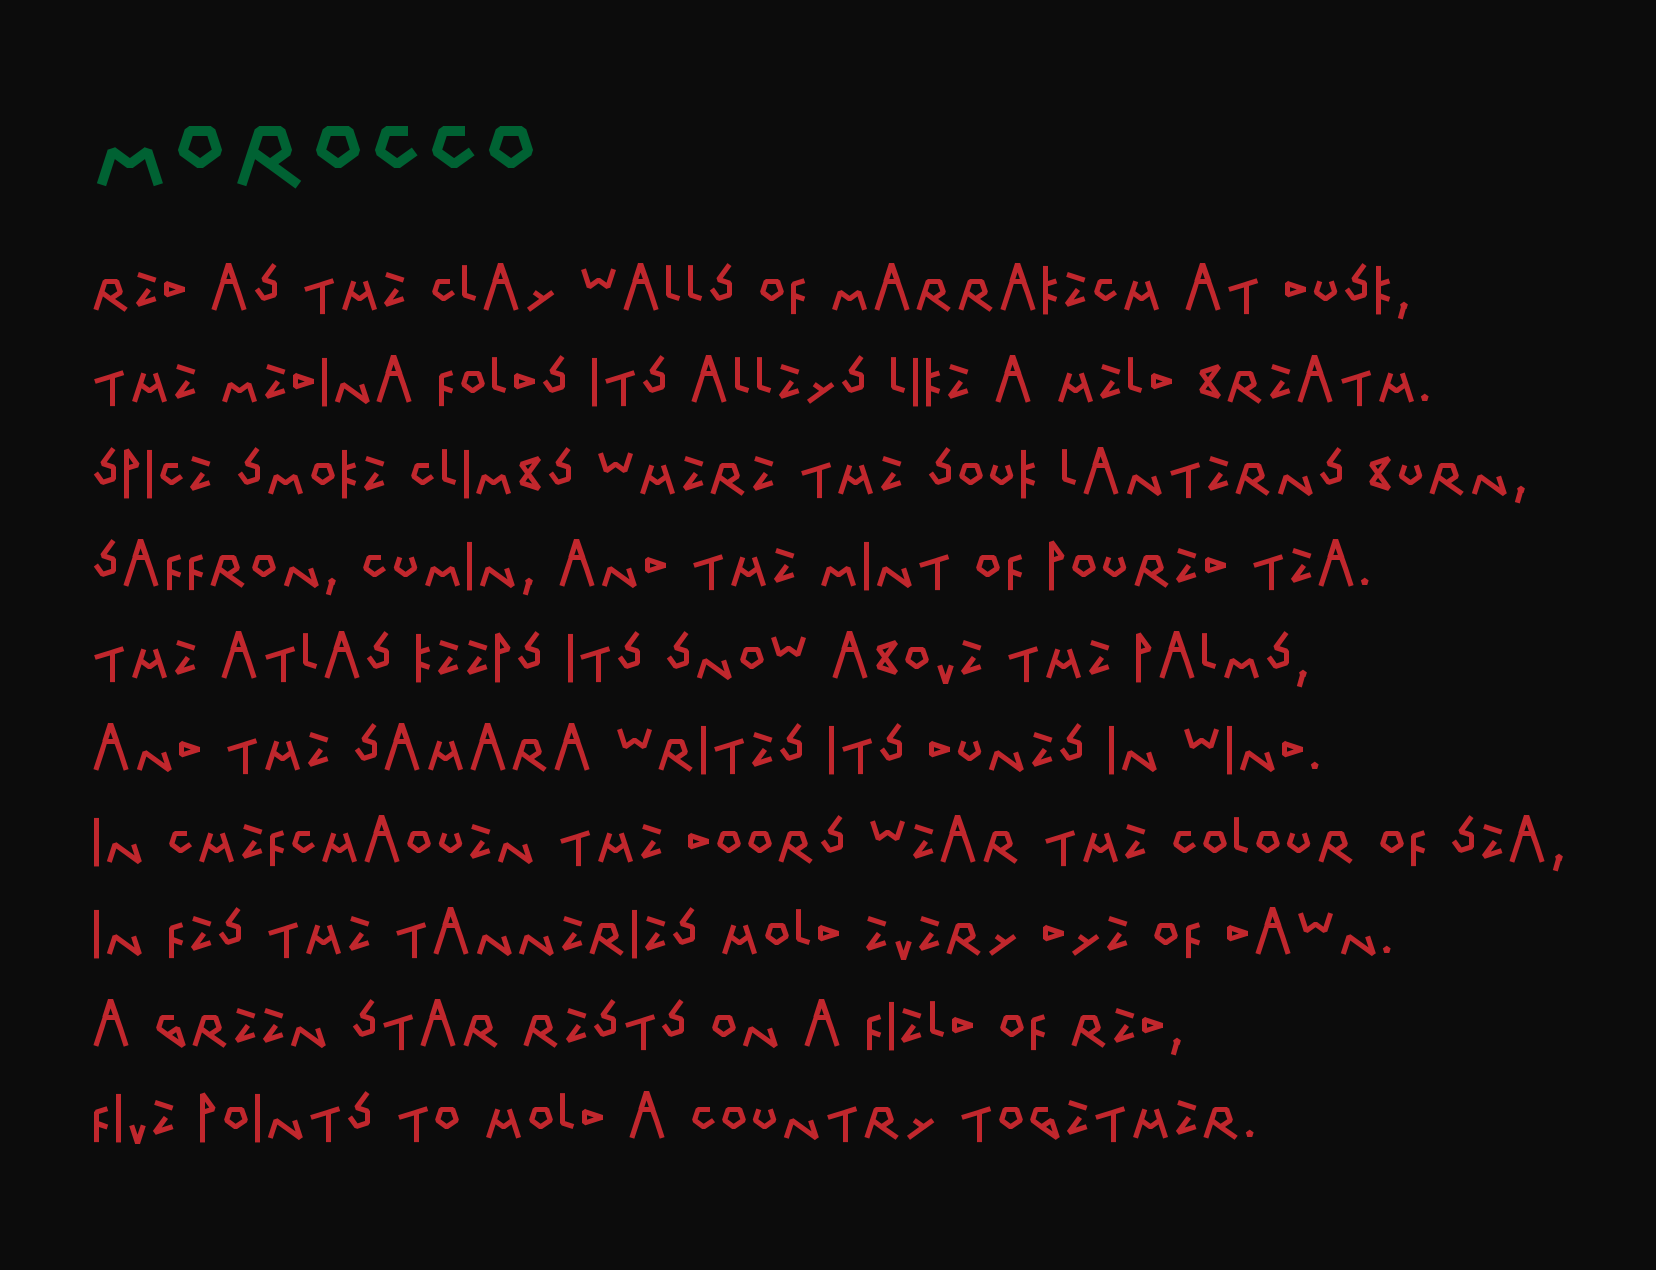
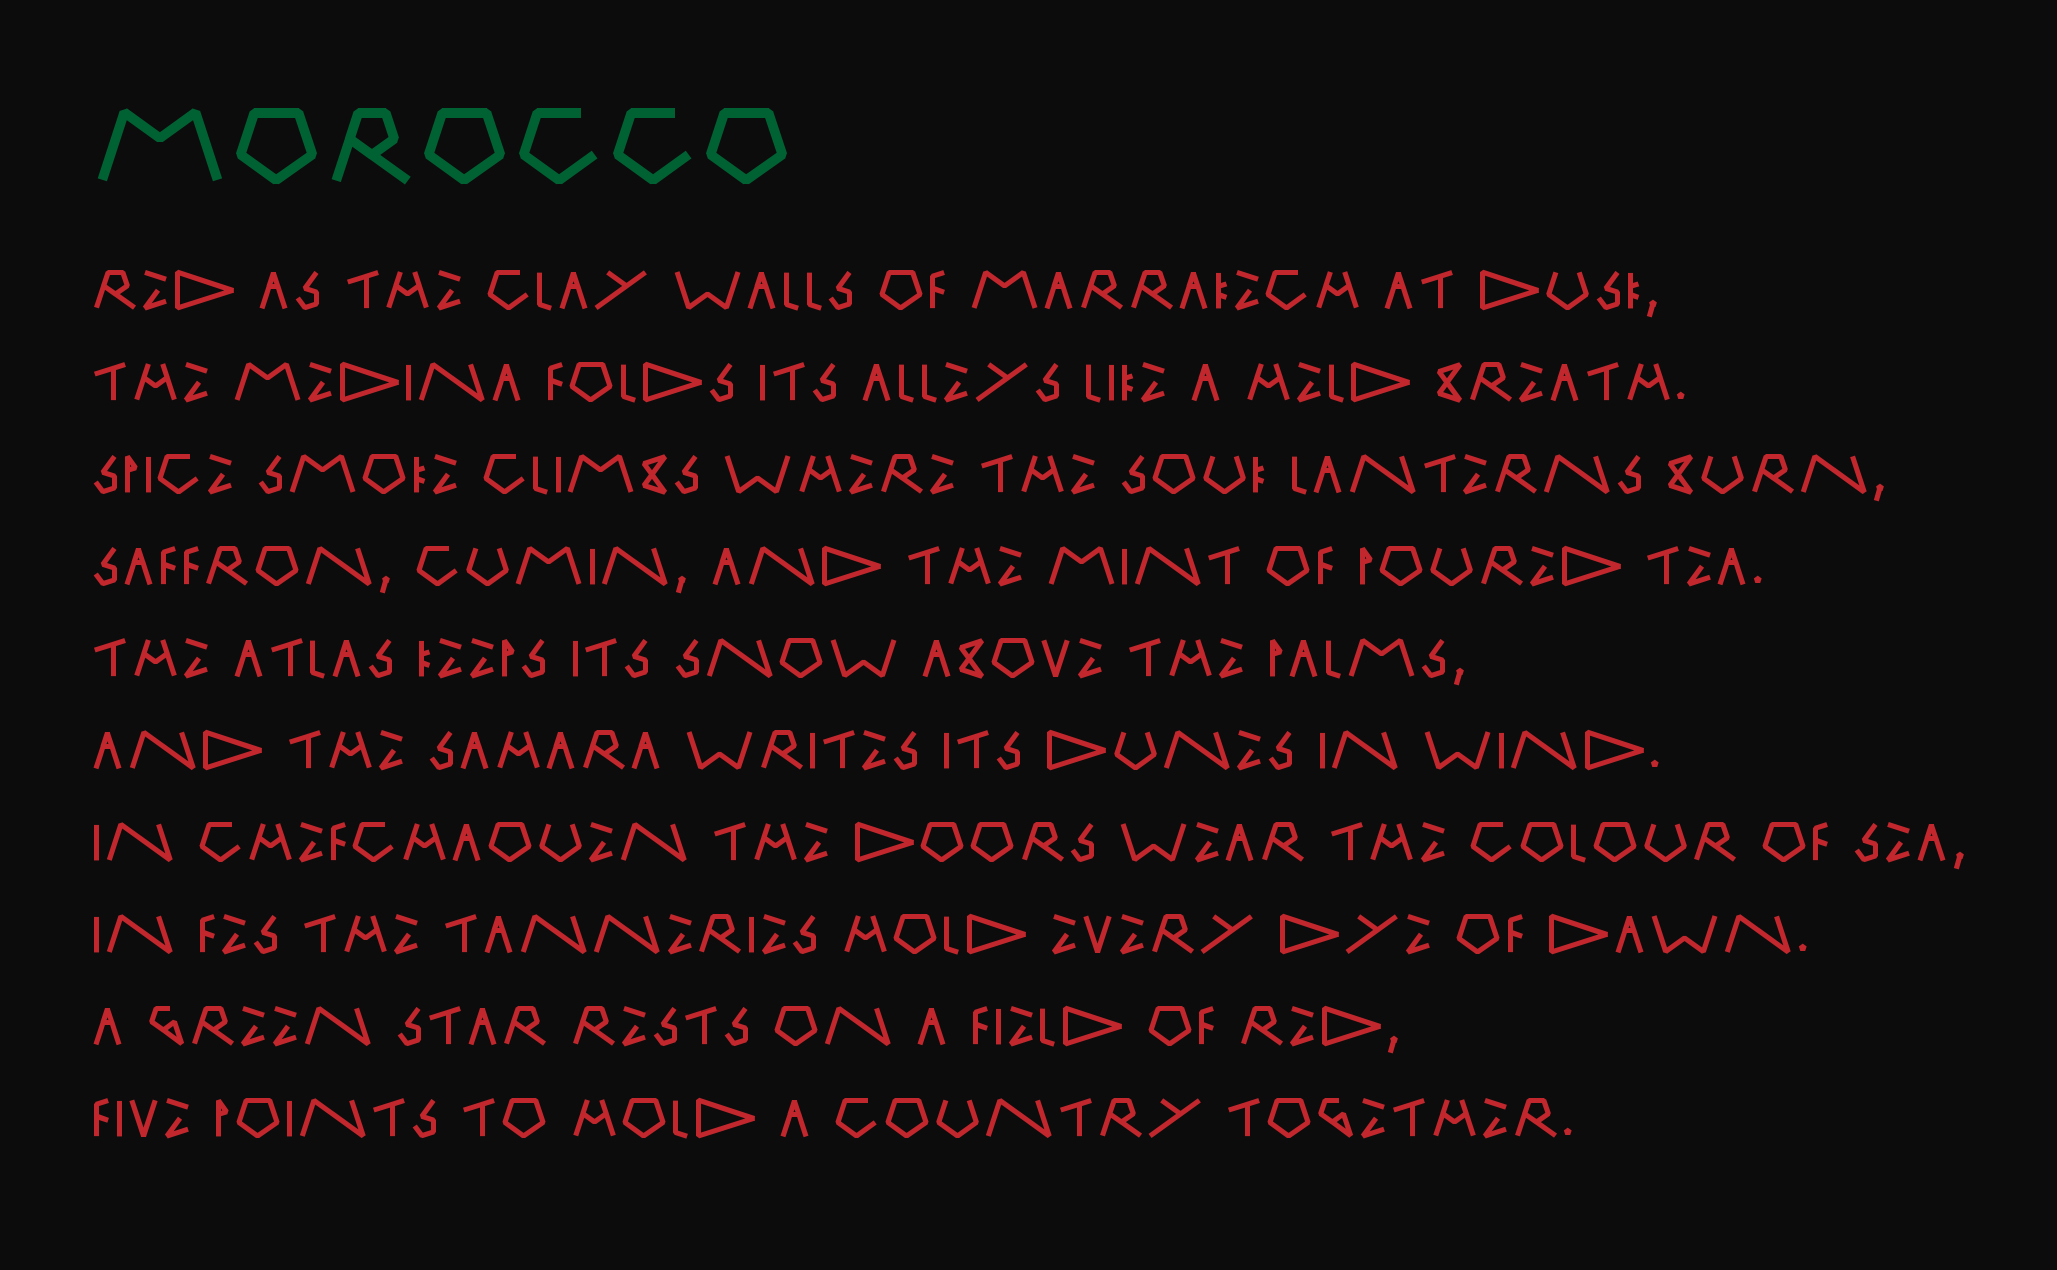
Resize

diff --git a/star_font.py b/star_font.py
@@ -29,6 +29,13 @@ STROKE = 80               # stroke width in font units
 SIDE_BEARING = 60
 SPACE_WIDTH = 300
 BASELINE_OFFSET = STAR_SCALE * math.cos(math.radians(36))  # bottom tips sit on y=0
+# Letter sizing:
+#   "star"   - every letter keeps its size and position inside the star
+#   "equal"  - every letter's skeleton is scaled to CAP_HEIGHT and sits on the baseline
+#   "capped" - like "equal", but letters wider than MAX_WIDTH are scaled down to fit it
+SIZING = "equal"
+CAP_HEIGHT = 560          # skeleton height in font units
+MAX_WIDTH = 500           # skeleton width limit for "capped"
 
 OVERLAP_SIMPLE = 0x40
 
@@ -168,7 +175,20 @@ def star_point(p, rotation):
 
 
 def letter_lines(segments, rotation):
-    return [tuple(star_point(p, rotation) for p in SEGMENTS[n]) for n in segments]
+    lines = [tuple(star_point(p, rotation) for p in SEGMENTS[n]) for n in segments]
+    return lines if SIZING == "star" else resize(lines, capped=SIZING == "capped")
+
+
+def resize(lines, capped):
+    """Scale the centre-line skeleton (not the outline), so stroke weight stays
+    constant whatever the scale, and sit it on the baseline."""
+    xs = [x for line in lines for x, _ in line]
+    ys = [y for line in lines for _, y in line]
+    y_min = min(ys)
+    k = CAP_HEIGHT / (max(ys) - y_min)
+    if capped:
+        k = min(k, MAX_WIDTH / (max(xs) - min(xs)))
+    return [tuple((x * k, (y - y_min) * k) for x, y in line) for line in lines]
 
 
 def small_pentagon(cx, cy, r):
@@ -181,8 +201,9 @@ def punctuation(outliner):
     period = GlyphShape([small_pentagon(0, dot_r, dot_r)])
     comma_tail = outliner.outline([((0, dot_r), (-dot_r * 0.9, -dot_r * 2.2))])
     comma = GlyphShape([small_pentagon(0, dot_r, dot_r)] + comma_tail)
-    hyphen = letter_lines([1], 0)
-    top = BASELINE_OFFSET + STAR_SCALE
+    mid = CAP_HEIGHT / 2 if SIZING != "star" else BASELINE_OFFSET + STAR_SCALE * 0.309
+    hyphen = [((0, mid), (CAP_HEIGHT * 0.3, mid))]
+    top = CAP_HEIGHT if SIZING != "star" else BASELINE_OFFSET + STAR_SCALE
     apostrophe = [((0, top), (-STROKE * 0.8, top - STROKE * 3))]
 
     shapes = {
@@ -246,7 +267,7 @@ class StarFontBuilder:
         fb.setupNameTable({"familyName": FAMILY, "styleName": "Regular"})
         fb.setupOS2(sTypoAscender=ascent, sTypoDescender=descent, sTypoLineGap=200,
                     usWinAscent=ascent, usWinDescent=-descent,
-                    sCapHeight=y_max, sxHeight=round(BASELINE_OFFSET))
+                    sCapHeight=y_max, sxHeight=round(CAP_HEIGHT if SIZING != "star" else BASELINE_OFFSET))
         fb.setupPost()
         fb.save(path)
         return path
